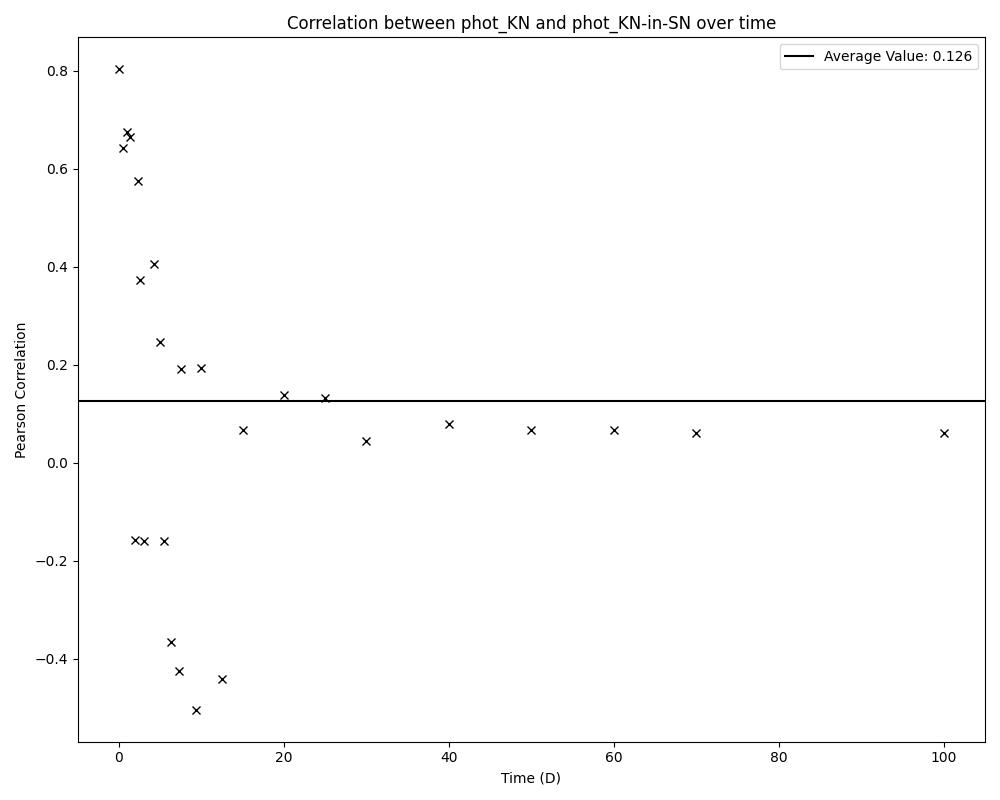
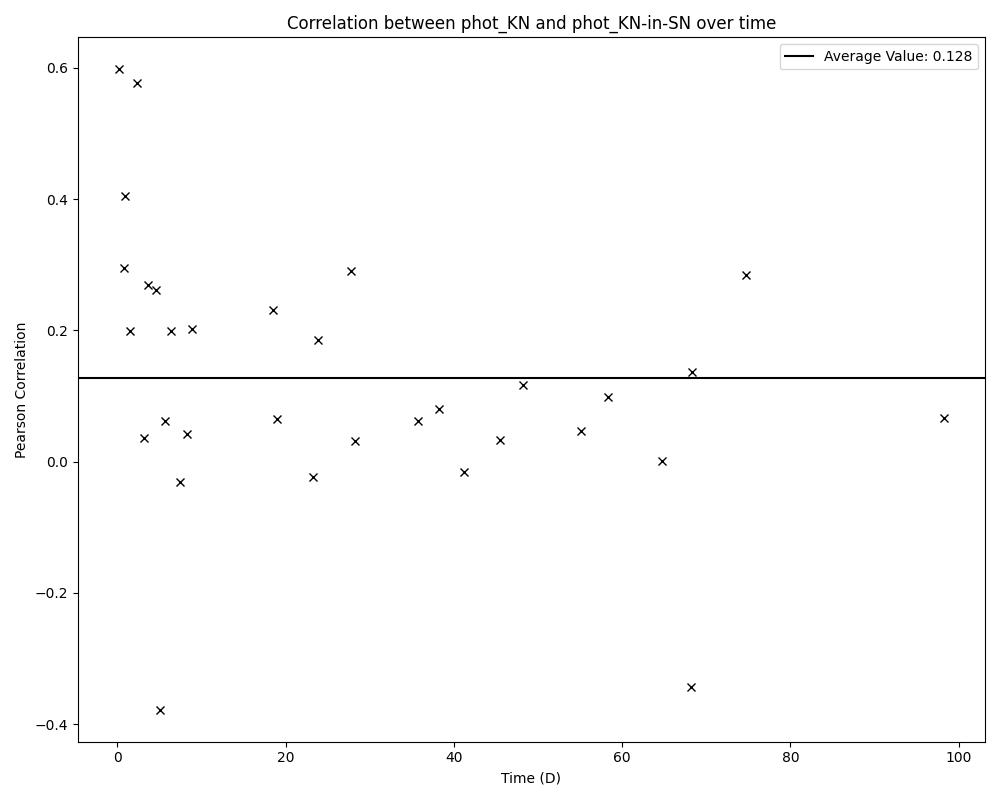
Updated Graphs

diff --git a/photo_analysis.py b/photo_analysis.py
@@ -52,7 +52,7 @@ def plot():
     plt.legend()
     plt.title('Correlation between phot_KN and phot_KN-in-SN over time')
     plt.tight_layout()
-    plt.savefig('./out/KN_KS_Correlation.jpg')
+    plt.savefig('./out/figs/KN_KS_Correlation.jpg')
 
     plt.figure(figsize=(10,8))
     plt.plot(times, corr_KN_SK, 'kx')
@@ -62,7 +62,7 @@ def plot():
     plt.legend()
     plt.title('Correlation between phot_KN and phot_Super-KN over time')
     plt.tight_layout()
-    plt.savefig('./out/KN_SK_Correlation.jpg')
+    plt.savefig('./out/figs/KN_SK_Correlation.jpg')
 
     plt.figure(figsize=(10,8))
     plt.plot(times, corr_KS_SK, 'kx', label='Data')
@@ -72,7 +72,7 @@ def plot():
     plt.ylabel('Pearson Correlation')
     plt.title('Correlation between phot_KN-in-SN and phot_super-KN over time')
     plt.tight_layout()
-    plt.savefig('./out/KS_SK_Correlation.jpg')
+    plt.savefig('./out/figs/KS_SK_Correlation.jpg')
 
 get_correlation_data()
 plot()
